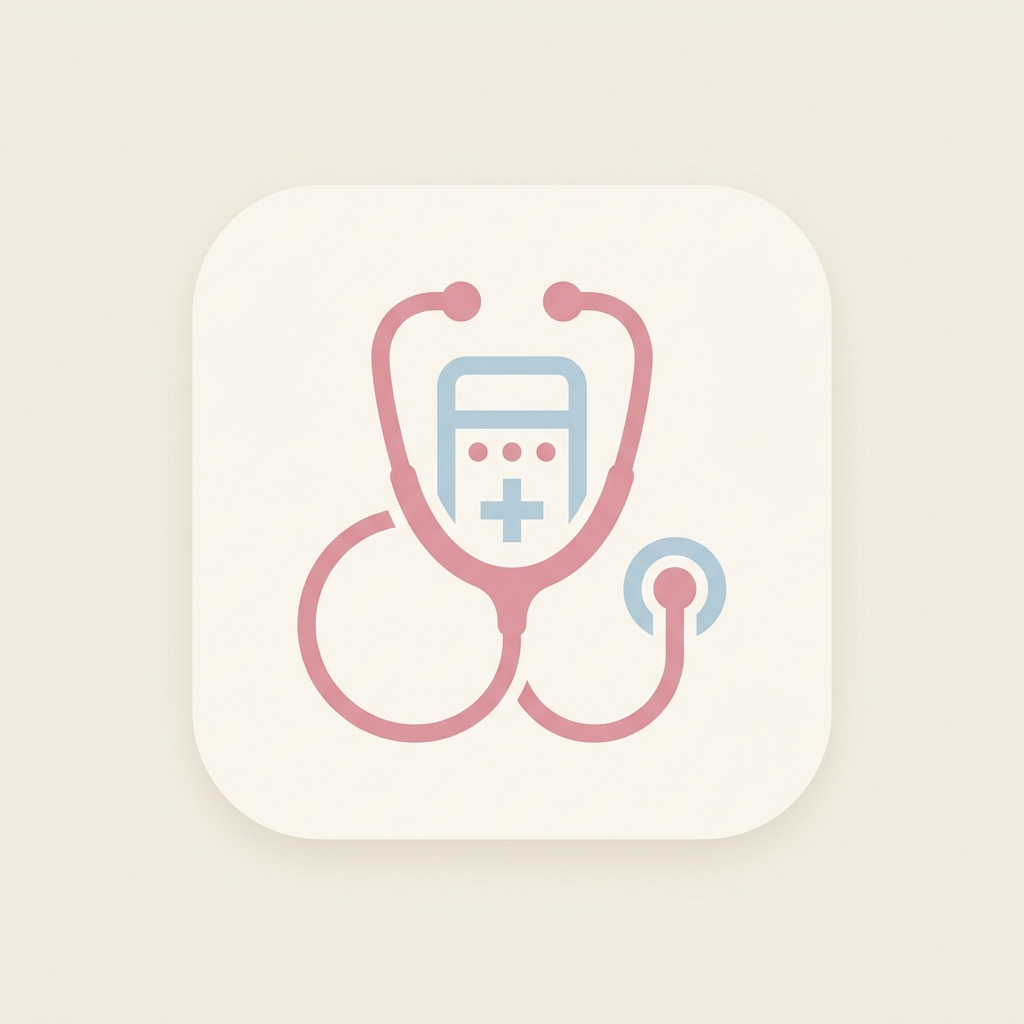
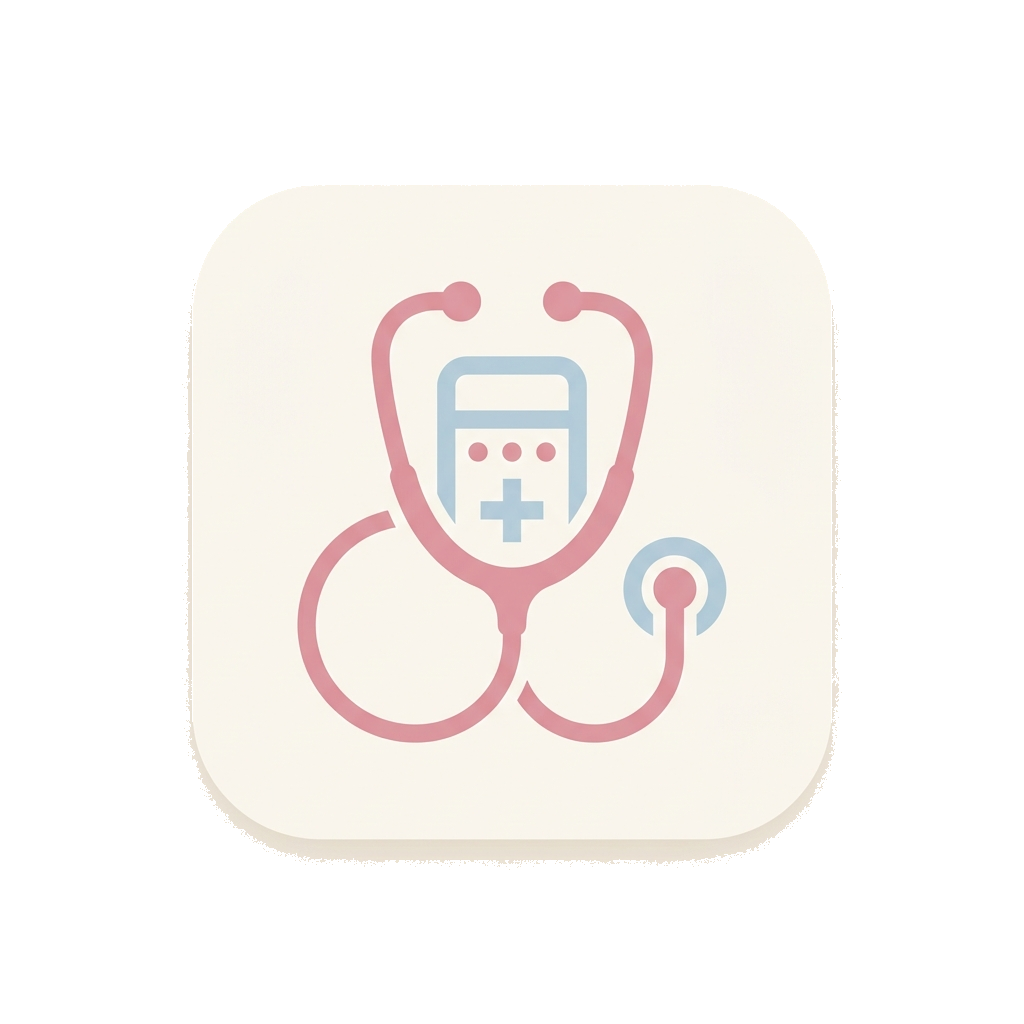
fix

diff --git a/vite.config.ts b/vite.config.ts
@@ -10,7 +10,7 @@ export default defineConfig({
     tailwindcss(),
     VitePWA({
       registerType: 'autoUpdate',
-      includeAssets: ['favicon.svg', 'pwa-icon-512.png'],
+      includeAssets: ['favicon.svg', 'pwa-icon-512.png', 'pwa-icon-maskable-512.png'],
       manifest: {
         name: 'Pocket MedCalc — 臨床醫學計算機',
         short_name: 'MedCalc',
@@ -30,7 +30,7 @@ export default defineConfig({
             purpose: 'any'
           },
           {
-            src: 'pwa-icon-512.png',
+            src: 'pwa-icon-maskable-512.png',
             sizes: '512x512',
             type: 'image/png',
             purpose: 'maskable'